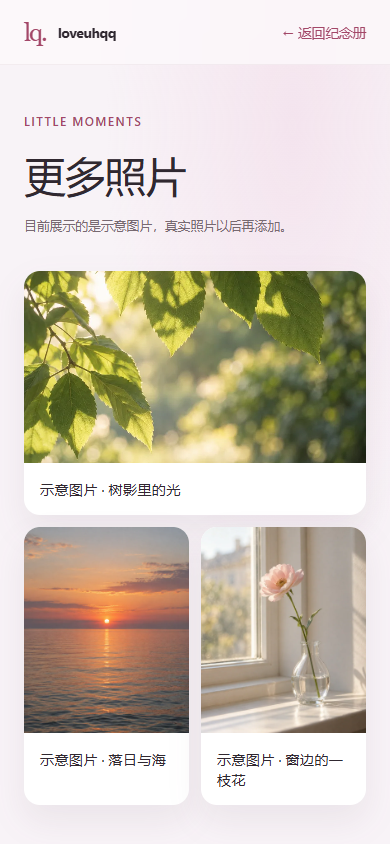
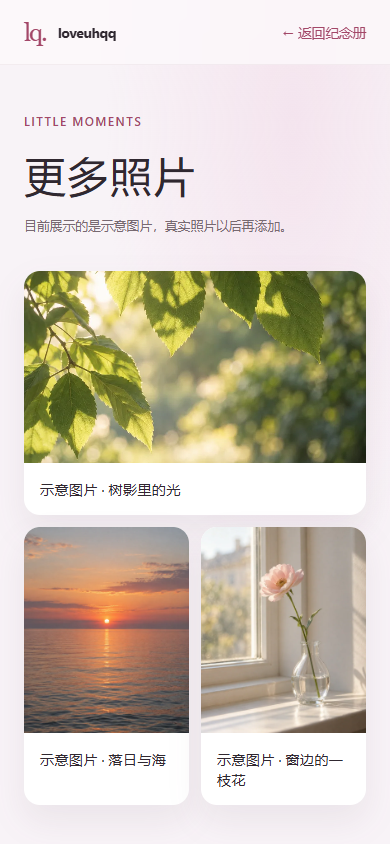
fix(ui): widen Chinese headline spacing

Changed region(s): [[0.1538, 0.1848, 0.4923, 0.2464]]

diff --git a/src/styles/global.css b/src/styles/global.css
@@ -55,7 +55,7 @@ img { display: block; max-width: 100%; }
 .scroll-cue:hover span { transform: translateY(3px); }
 .eyebrow { font-size: .75rem; font-weight: 600; line-height: 1.6; letter-spacing: .16em; color: var(--rose); }
 .accent { color: var(--rose); }
-.section-copy h2, .future-copy h2 { margin-top: 1.5rem; font-size: clamp(2.5rem, 4.6vw, 4.6rem); line-height: 1.26; font-weight: 400; letter-spacing: -.055em; text-wrap: balance; }
+.section-copy h2, .future-copy h2 { margin-top: 1.5rem; font-size: clamp(2.5rem, 4.6vw, 4.6rem); line-height: 1.26; font-weight: 400; letter-spacing: .03em; text-wrap: balance; }
 .section-description { margin-top: 1.5rem; font-size: clamp(.88rem, 1.2vw, 1rem); line-height: 1.9; color: var(--muted); }
 .quiet-note, .date { font-size: .78rem; line-height: 1.8; color: var(--muted); }
 .date time { font-variant-numeric: tabular-nums; letter-spacing: .06em; }
@@ -90,7 +90,7 @@ img { display: block; max-width: 100%; }
 .hero { background: radial-gradient(ellipse at 77% 44%, #f3cbdc 0, transparent 43%), radial-gradient(ellipse at 24% 75%, #f4d7df88, transparent 52%), linear-gradient(125deg, #fcf7f7 0%, #f8eaf0 56%, #eee8f4 100%); }
 .hero-layout { display: grid; grid-template-columns: 1fr 1fr; align-items: center; gap: 2rem; }
 .hero-copy .eyebrow { display: flex; align-items: center; gap: .8rem; }
-.hero h1 { margin-top: 1.9rem; font-size: clamp(3.5rem, 6.2vw, 6.25rem); font-weight: 400; letter-spacing: -.035em; line-height: 1.24; }
+.hero h1 { margin-top: 1.9rem; font-size: clamp(3.5rem, 6.2vw, 6.25rem); font-weight: 400; letter-spacing: .03em; line-height: 1.24; }
 .hero h1 > span { color: var(--rose); }
 .hero .intro { margin-top: 1.7rem; font-size: clamp(.95rem, 1.3vw, 1.12rem); line-height: 1.9; color: var(--muted); letter-spacing: .035em; }
 .hero .button { margin-top: 2rem; }
@@ -126,7 +126,7 @@ img { display: block; max-width: 100%; }
 
 .photo-section { background: #f3f0f3; }
 .photos-heading { display: flex; align-items: flex-end; justify-content: space-between; gap: 2rem; margin-bottom: 1.5rem; }
-.photos-heading h2 { margin-top: 1rem; font-size: clamp(2rem, 3.1vw, 3.2rem); font-weight: 400; line-height: 1.3; letter-spacing: -.055em; }
+.photos-heading h2 { margin-top: 1rem; font-size: clamp(2rem, 3.1vw, 3.2rem); font-weight: 400; line-height: 1.3; letter-spacing: .03em; }
 .photos-heading .section-description { font-size: .82rem; text-align: right; margin-bottom: .3rem; }
 .photo-grid { display: grid; grid-template-columns: repeat(3, minmax(0, 1fr)); gap: 1.2rem; }
 .album-empty { min-height: clamp(14rem, 37dvh, 27rem); display: flex; flex-direction: column; align-items: center; justify-content: center; gap: 1rem; border: 1px dashed #b996a79c; border-radius: 1.2rem; background: #fff9fc8c; color: var(--muted); }
@@ -151,7 +151,7 @@ img { display: block; max-width: 100%; }
 .album-return:hover { text-decoration: underline; text-underline-offset: 5px; }
 .album-main { width: min(76rem, calc(100% - 2 * var(--page-pad))); margin-inline: auto; padding-block: calc(var(--header-height) + 6rem) 4rem; }
 .album-heading { margin-bottom: 2rem; }
-.album-heading h1 { margin-top: 1rem; font-size: clamp(2.5rem, 5vw, 4rem); font-weight: 400; letter-spacing: -.035em; }
+.album-heading h1 { margin-top: 1rem; font-size: clamp(2.5rem, 5vw, 4rem); font-weight: 400; letter-spacing: .03em; }
 .album-heading .section-description { margin-top: .7rem; }
 .album-grid { display: grid; grid-template-columns: repeat(3, minmax(0, 1fr)); gap: 1.2rem; }
 .album-photo { overflow: hidden; border-radius: 1rem; background: #fff; box-shadow: 0 1rem 2rem #66465816; }

diff --git a/README.md b/README.md
@@ -51,7 +51,7 @@ GitHub 自动部署尚未配置；没有绕过权限或创建额外凭据。GitH
 
 可见 UI 改动完成后，运行 `npm run deploy:preview`，从当前分支构建并更新独立 Worker `loveuhqq-site-preview`。验收地址是 [临时预览站](https://loveuhqq-site-preview.1756127916.workers.dev/)；每次更新后需实际检查首页、受影响页面和资源，并把链接与截图发给用户。此地址公开可访问，始终显示最近一次手动上传的预览版本，不会自动跟随 Git 提交，也不影响正式域名。
 
-本次参考截图：[桌面首页](docs/previews/gallery-home-desktop.png) · [手机相册](docs/previews/gallery-album-mobile.png)。预览配置位于 `wrangler.preview.jsonc`，只有 `workers.dev` 地址，没有正式站点的 Custom Domain 路由。
+本次参考截图：[桌面首页](docs/previews/gallery-home-desktop.png) · [手机首页](docs/previews/headline-home-mobile.png) · [手机相册](docs/previews/gallery-album-mobile.png)。预览配置位于 `wrangler.preview.jsonc`，只有 `workers.dev` 地址，没有正式站点的 Custom Domain 路由。
 
 生产操作、回滚、DNS 边界和已有验证证据见 [部署说明](docs/DEPLOYMENT.md)，视觉约束见 [设计说明](docs/DESIGN.md)。生产部署、Cloudflare 和 DNS 修改都需要当前任务的明确授权。
 

diff --git a/docs/DESIGN.md b/docs/DESIGN.md
@@ -26,6 +26,7 @@
 
 - 固定浅色：基础背景 `#fcfafb`、正文 `#302830`、辅助文字 `#776971`、玫瑰强调色 `#a34768`，各屏用柔粉、淡紫和近白色渐变区分。系统深色偏好不改变页面配色。
 - 正文、标题和数字使用本机系统无衬线字体栈，包括 Segoe UI、PingFang SC、Microsoft YaHei；标识和装饰引号少量使用 Georgia，不请求外部字体。
+- 首页与章节中的大号中文标题使用轻微正字距，让相邻字形保持清晰间隔；字号和换行仍按视口适配。
 - 固定页眉使用半透明背景与毛玻璃，首屏以一枚哑光、实心的纸质爱心呼应柔粉背景；计数卡片居中放在爱心正下方。计数和纪念日卡片使用轻边框、圆角与柔和阴影。装饰不遮挡正文或操作入口。
 - 桌面主体内容宽度上限 76rem，首页、故事、纪念日和未来屏使用双栏；手机改为单列，每侧保留 1.5rem 内边距，省去侧边章节导航与次要边注。
 - 首页标题在逗号后换行；普通桌面、手机竖屏和横屏均以每个章节占一视口为布局目标。短屏通过重新分配图文空间、收紧间距和缩小装饰适配，不裁切正文来制造单屏效果。
